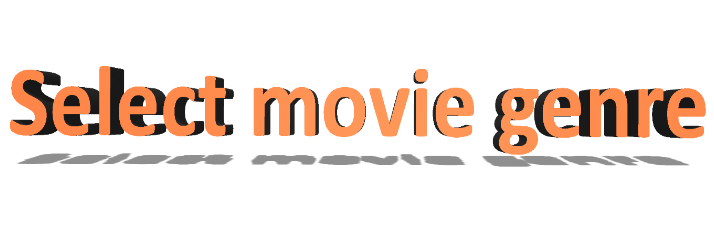
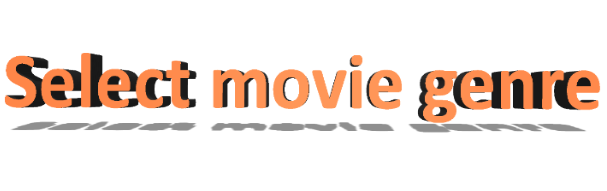
v2 img filter

diff --git a/src/sass/components/_filter.scss b/src/sass/components/_filter.scss
@@ -48,13 +48,17 @@ fieldset {
   justify-content: center;
   margin-bottom: 10px;
   overflow: hidden;
-  background-image: url("../../src/images/filter/filter-genre2.png");
+  background-image: url("../../src/images/filter/filter-genre.png");
   background-repeat: no-repeat;
   background-position: center;
   transition: transform 300ms cubic-bezier(0.4, 0, 0.2, 1);
 
   &:hover {
     background-image: none;
+  }
+
+    @media screen and (max-width: $desktop) {
+      background-image: url("../../src/images/filter/filter-genre2.png");
   }
 }
 
